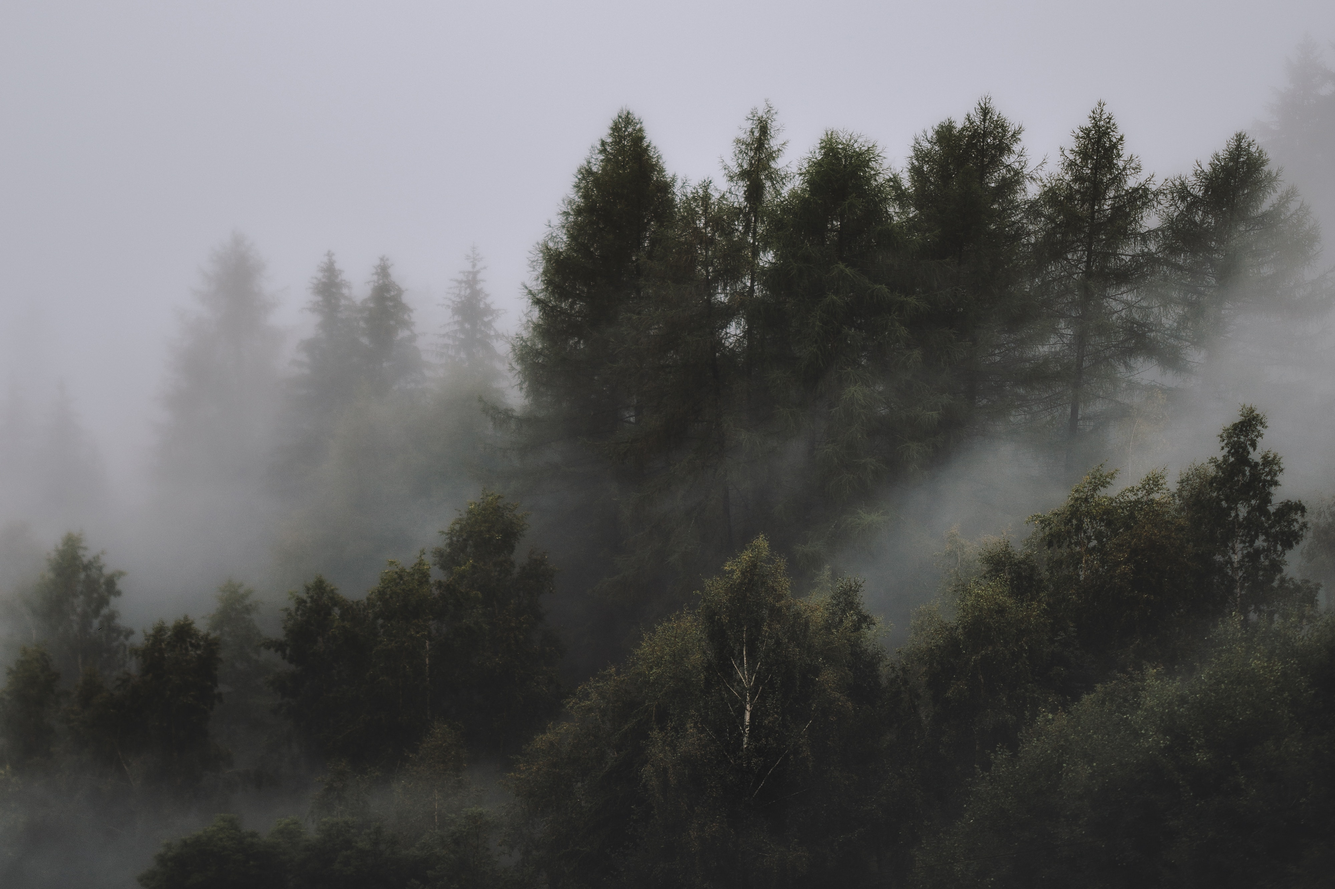
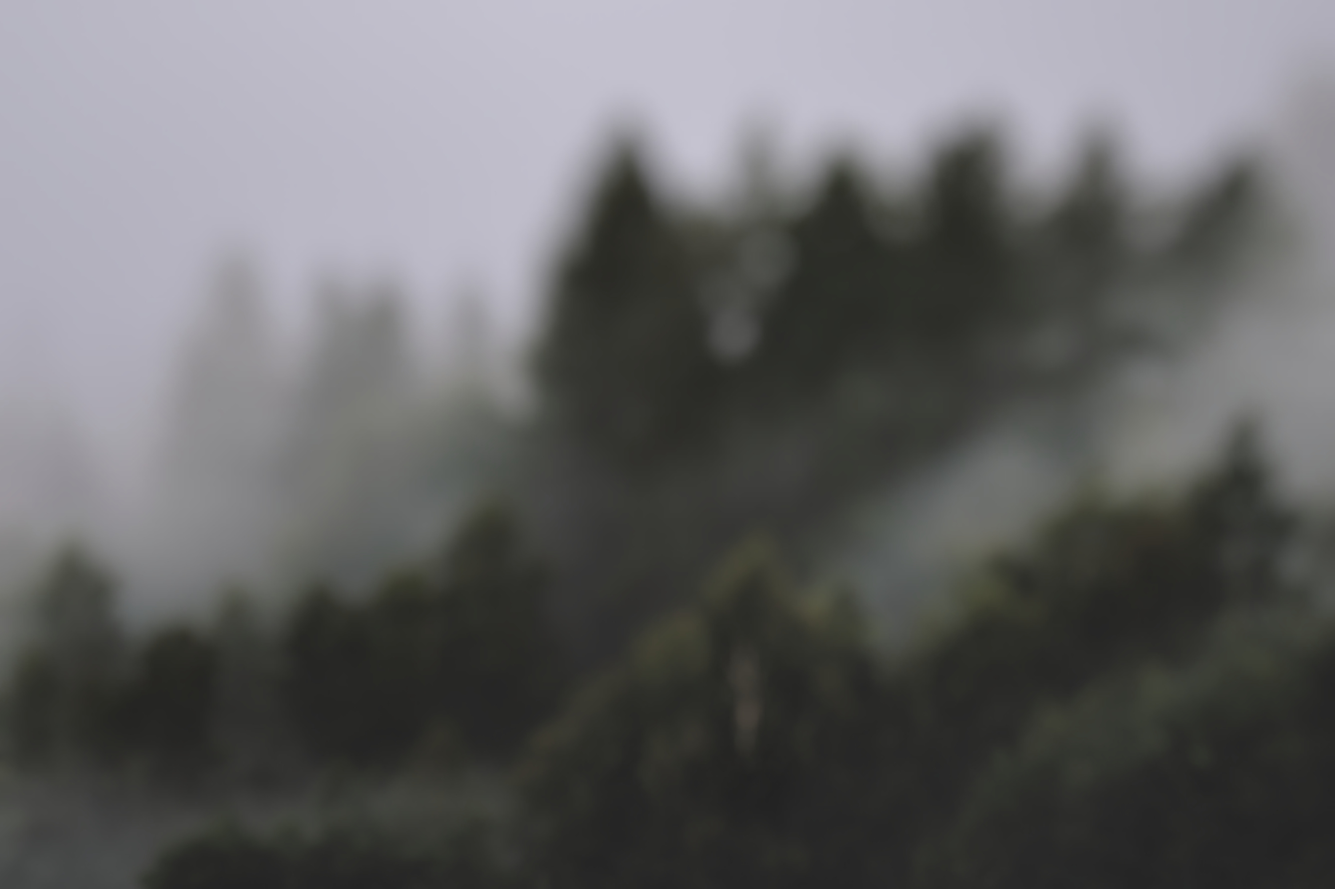
added backgroud

diff --git a/index.css b/index.css
@@ -3,60 +3,40 @@
 
 body{
     margin: 0;
-}
-
-.hero-image{
-    background: url('background.jpg');
-    background-size: cover;
-    position: relative;
-}
-
-li{
-    display: inline;
-    padding: 16px 17px;
-    font-size: 18px;
-}
-
-
-.topnav{
-    background-color: rgb(73, 62, 62);
+    height: 100vh;
+    background: url('background.jpg') no-repeat center center / cover;
     overflow: hidden;
-    position: fixed;
-    top: 0%;
-    width: 100%;
+}
+
+ul{
+    list-style-type: none;
     margin: 0;
     padding: 0;
+    overflow: hidden;
+    background-color: #333;
+    position: fixed;
+    top: 0;
+    width: 100%;
 }
 
-.topnav a{
+li {
     float: right;
+    font-family: 'Raleway';
+    font-size: 20px;
+  }
+  
+li a {
+    display: block;
+    color: white;
     text-align: center;
-    padding: 14px 16px;
-    font-size: 17px;
+    padding: 14px 30px;
     text-decoration: none;
-    color: white;
-    font-family: 'Raleway';
 }
-
-.topnav a:hover{
-    background-color: #ddd;
-    color: black;
+  
+li a:hover:not(.active) {
+    background-color: rgb(122, 122, 122);
 }
-
-.topnav a.active{
-    background-color: #4caf50;
-    color: white;
-}
-
-.gn{
-    position: absolute;
-    font-family: 'Raleway';
-    font-size: 27px;
-    padding: 8cm 1cm
-}
-
-#greet{
-    color: black;
-    font-weight: 700;
-    
+  
+.active {
+    background-color: orange;
 }

diff --git a/index.html b/index.html
@@ -1,19 +1,20 @@
 <!DOCTYPE html>
+<html>
 <head>
     <meta name="viewport" content="width=device-width, initial-scale=1">
     <link rel="stylesheet" type="text/css" href="index.css">
     <title>
-        Version 2
+        Portfolio
     </title>
-    <body>
-       <ul class="topnav">
-           <li><a class="active" href="index.html">Home</a>
-            <li><a href="#about">About us</a></li>
-            <li><a href="#projects">Projects</a></li>
-            <li><a href="#feedback">Feedback</a></li>
-       </ul>
-       <div class="hero-image">
-           
-       </div>
-    </body>
 </head>
+    <body>
+        <header>
+                <ul>
+                        <li><a class="active" href="index.html">Home</a>
+                         <li><a href="#about">About us</a></li>
+                         <li><a href="#projects">Projects</a></li>
+                         <li><a href="#feedback">Feedback</a></li>
+                     </ul>
+        </header>
+    </body>
+</html>
